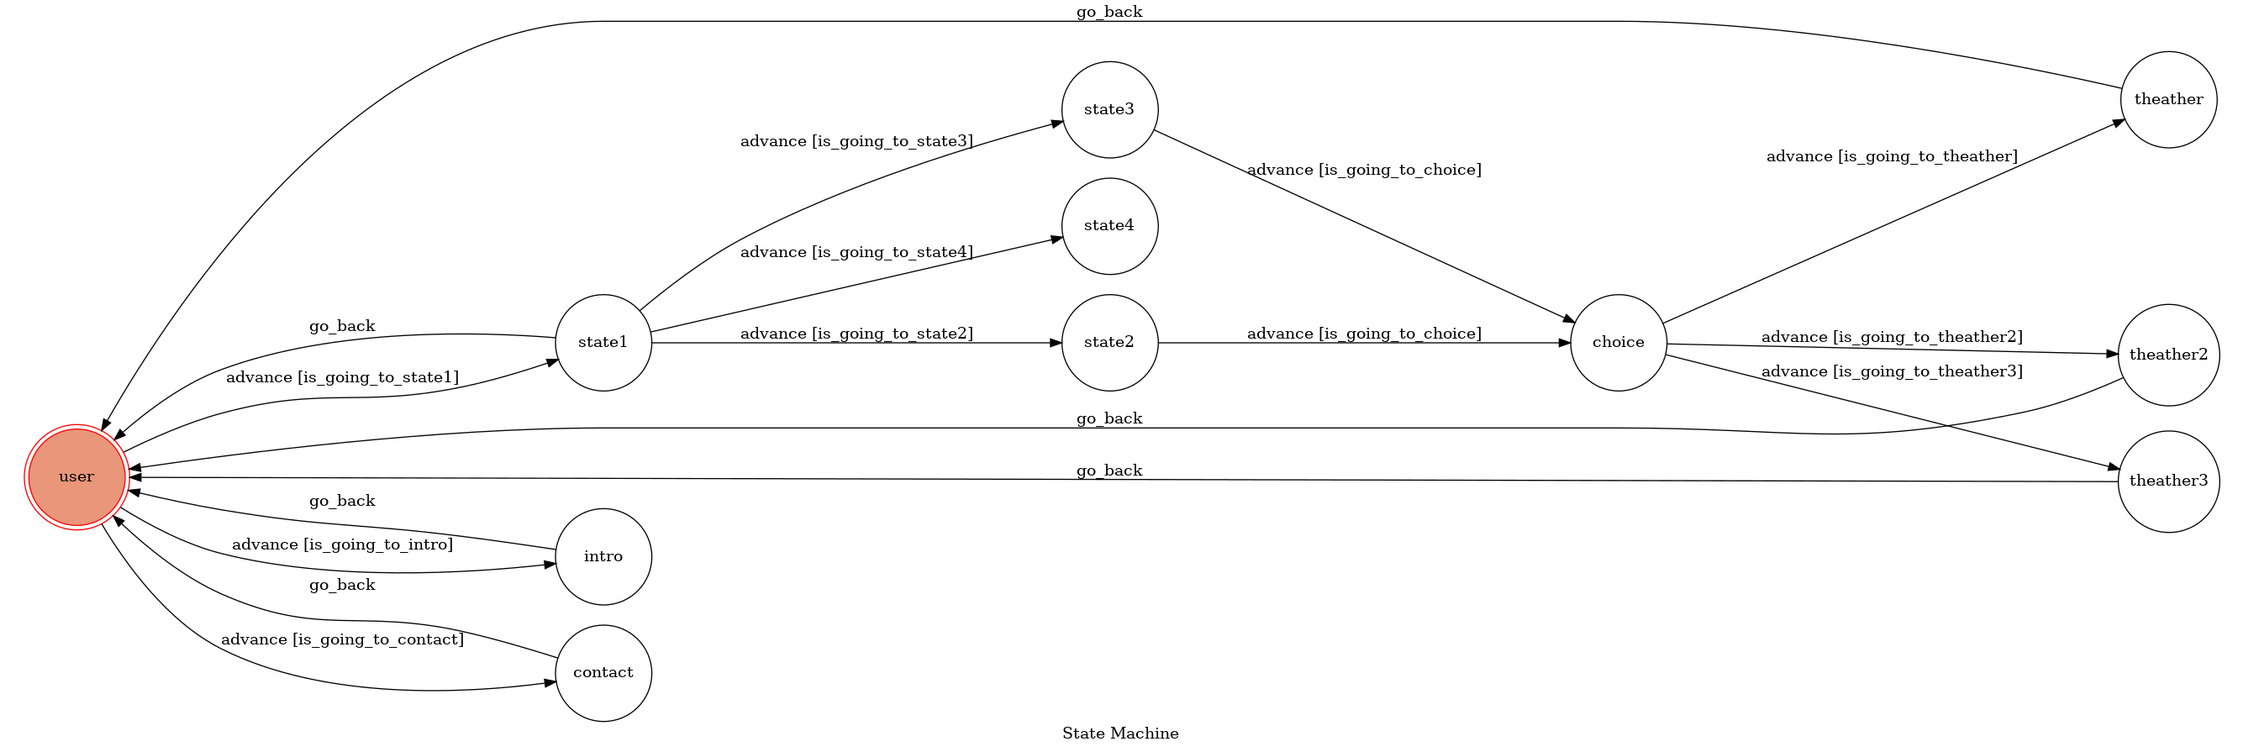
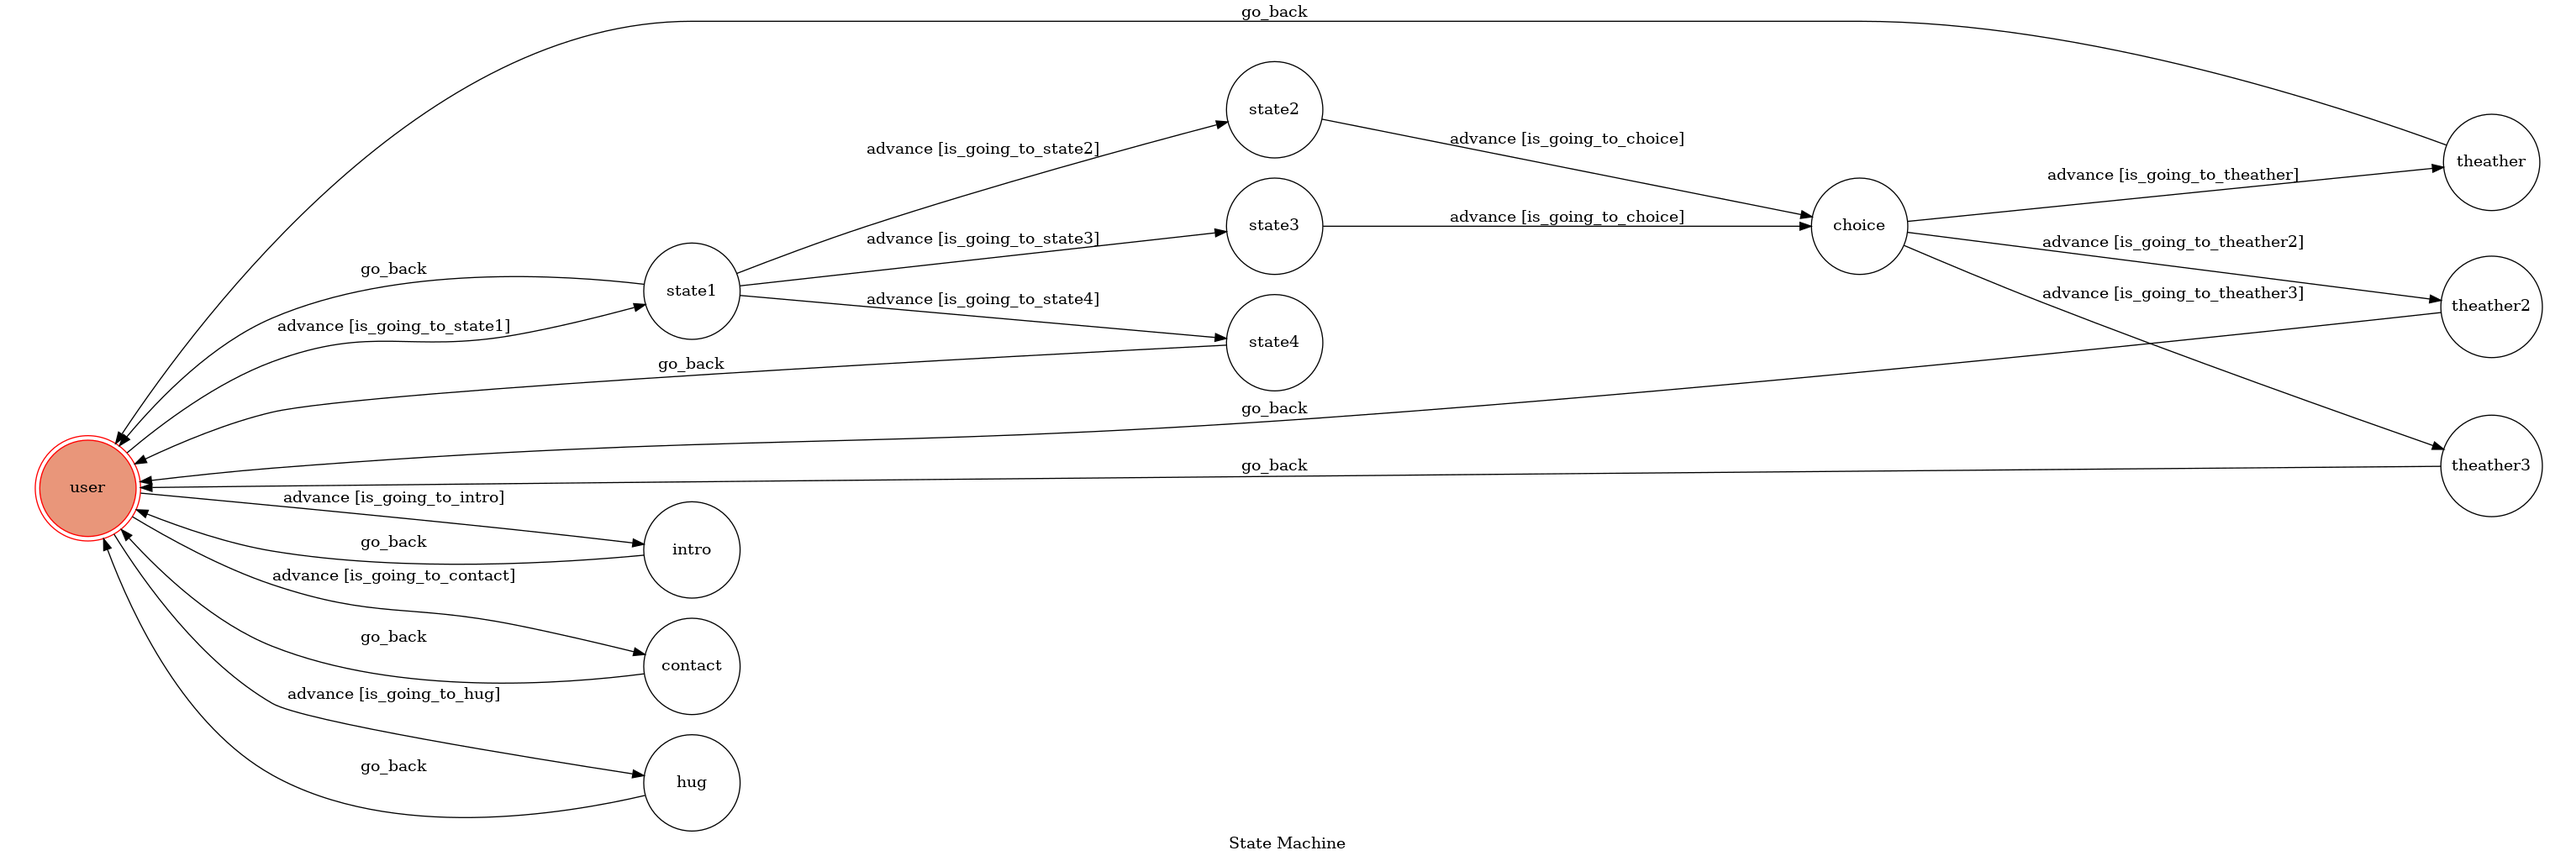
Version4

diff --git a/fsm.py b/fsm.py
@@ -35,7 +35,14 @@ class TocMachine(GraphMachine):
             if 'text' in event['message']:
                 text = event['message']['text']
                 return True
-        return False        
+        return False    
+
+    def is_going_to_hug(self, event):
+        if event.get("message"):
+            if 'text' in event['message']:
+                text = event['message']['text']
+                return text.lower() == 'give me a hug'
+        return False    
 
     def is_going_to_state2(self, event):
         if event.get("postback"):
@@ -131,11 +138,21 @@ class TocMachine(GraphMachine):
         print("I'm entering state intro")
 
         sender_id = event['sender']['id']
-        send_text_message(sender_id,"This is a chatbot for simply searching movie broadcast time.\nType 'know more' to get more information,or type 'contact' to reflect problems.")
+        send_text_message(sender_id,"This is a chatbot for simply searching movie broadcast time.\nType 'know more' to get more information.\nType 'contact' to reflect problems.\nType 'give me a hug' to give me some encouragement.")
         self.go_back()
 
     def on_exit_intro(self):
-        print('Leaving state intro')            
+        print('Leaving state intro')
+
+    def on_enter_hug(self,event):
+        print("I'm entering state intro")
+
+        sender_id = event['sender']['id']
+        send_text_message(sender_id,"thank you!!!")
+        self.go_back()
+
+    def on_exit_hug(self):
+        print('Leaving state hug')                
 
     def on_enter_state2(self, event):
         print("I'm entering state2")
@@ -224,9 +241,9 @@ class TocMachine(GraphMachine):
         ]
 
         send_url_message(sender_id,"Here is the link.",buttons)
-        #self.go_back()
+        self.go_back()
 
-    def on_exit_state4(self,event):
+    def on_exit_state4(self):
         print('Leaving state4')
 
     def on_enter_choice(seif,event):

diff --git a/app.py b/app.py
@@ -16,7 +16,8 @@ machine = TocMachine(
         'intro',#introduction of the bot
         'contact',#reflect the problem
         'theather2',
-        'theather3'
+        'theather3',
+        'hug'
     ],
     transitions=[
         {
@@ -30,6 +31,12 @@ machine = TocMachine(
             'source': 'user',
             'dest': 'contact',
             'conditions': 'is_going_to_contact'
+        },
+        {
+             'trigger': 'advance',
+            'source': 'user',
+            'dest': 'hug',
+            'conditions': 'is_going_to_hug'
         },
         {
              'trigger': 'advance',
@@ -91,6 +98,8 @@ machine = TocMachine(
                 'state1',
                 'intro',
                 'contact',
+                'hug',
+                'state4',
                 'theather',
                 'theather2',
                 'theather3'
